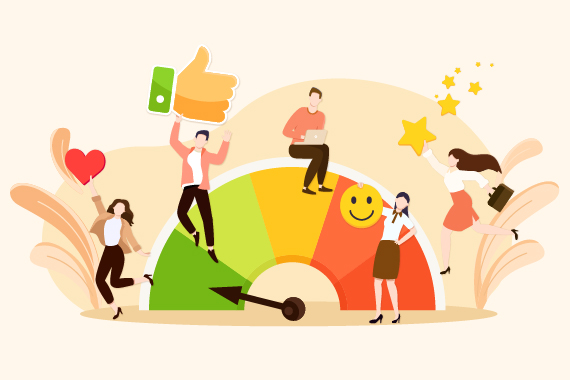
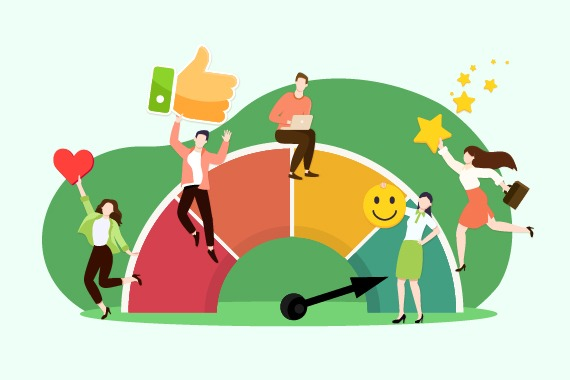
0402

diff --git a/b.html b/b.html
@@ -1003,7 +1003,7 @@
         <div class="blur three"></div>
 
         <div class="hero-card" style="padding: 0; overflow: hidden; display: flex;">
-          <img src="2026/A.jpg" alt="Team collaboration"
+          <img src="2026/B.jpg" alt="Team collaboration"
             style="width: 100%; height: auto; object-fit: cover; display: block;">
         </div>
       </div>
